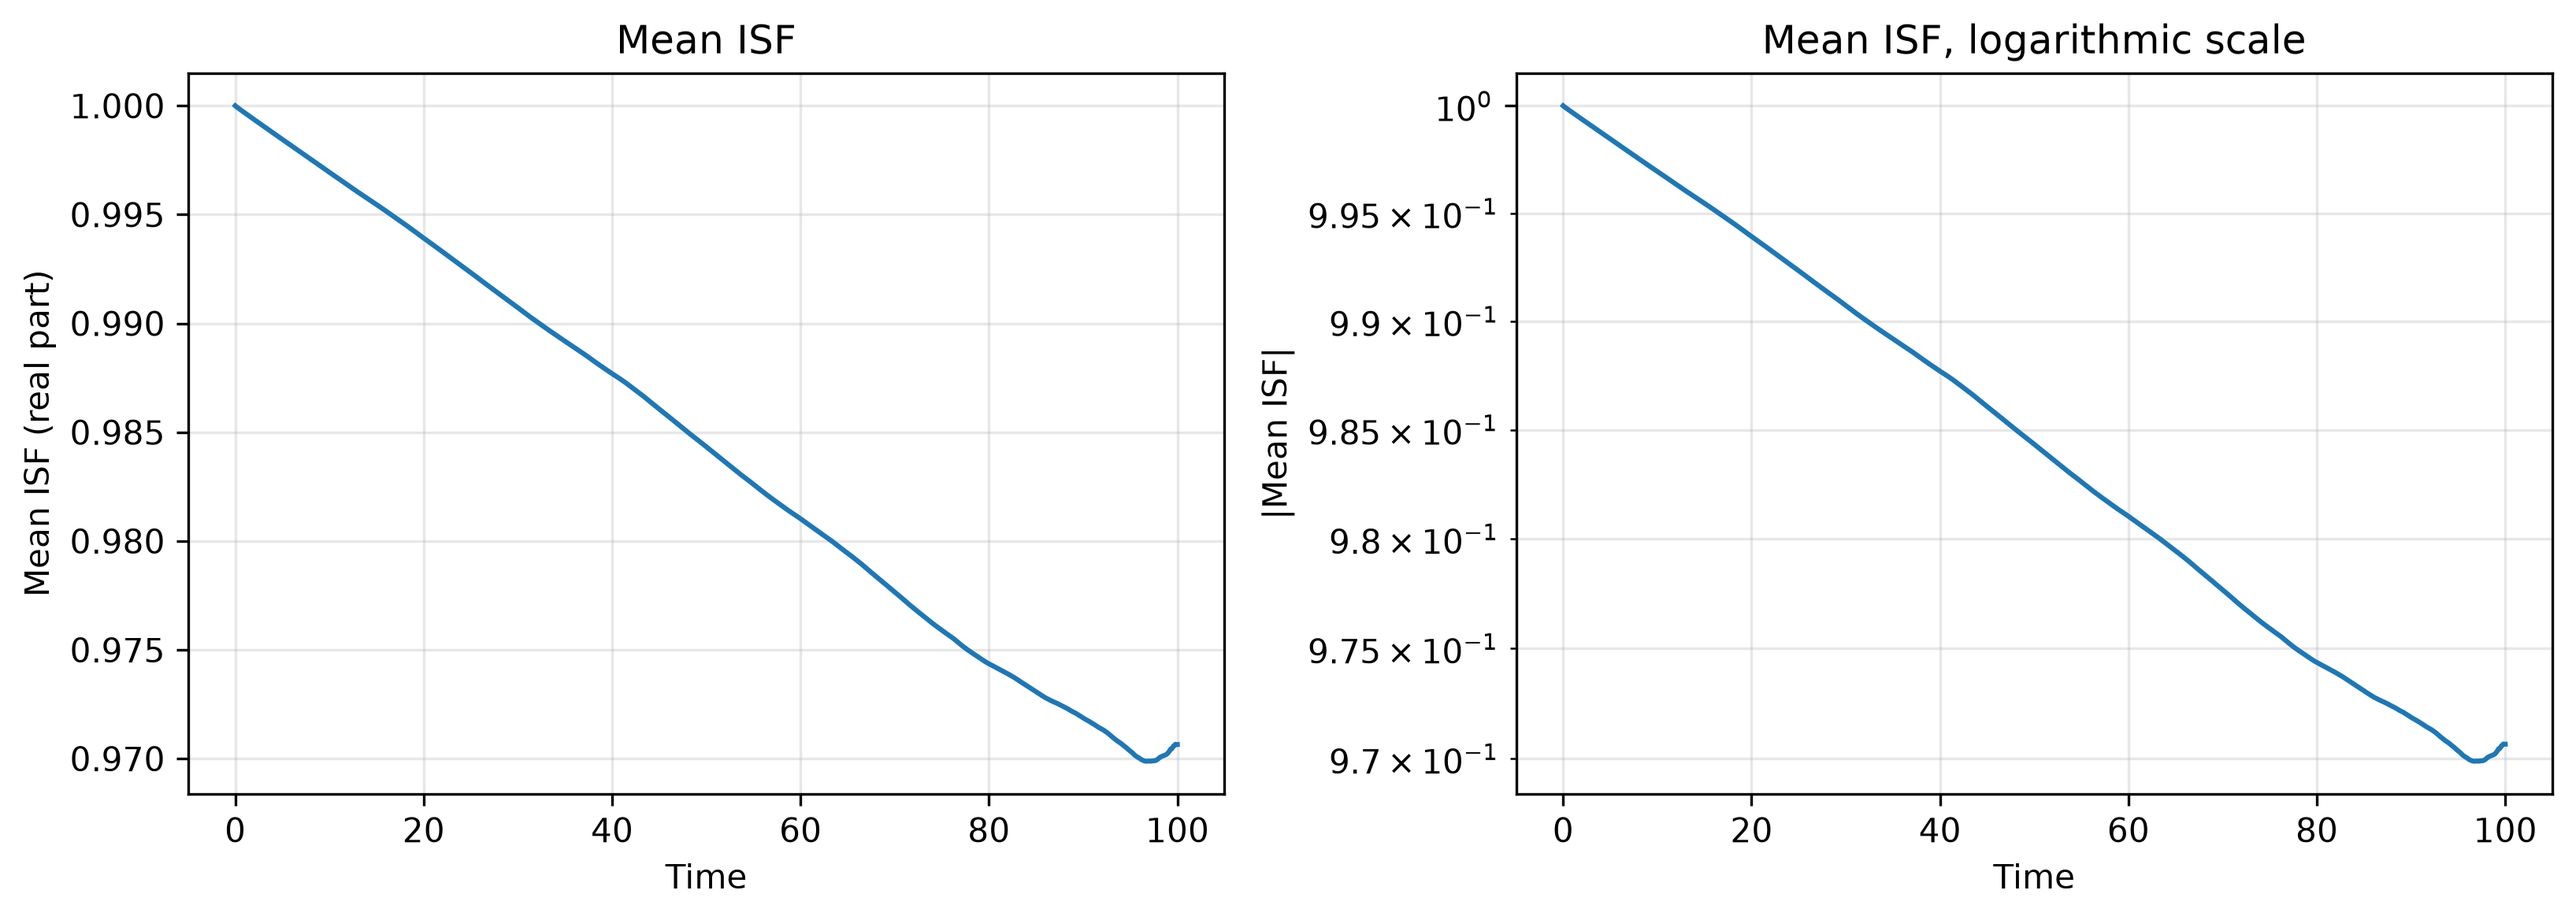
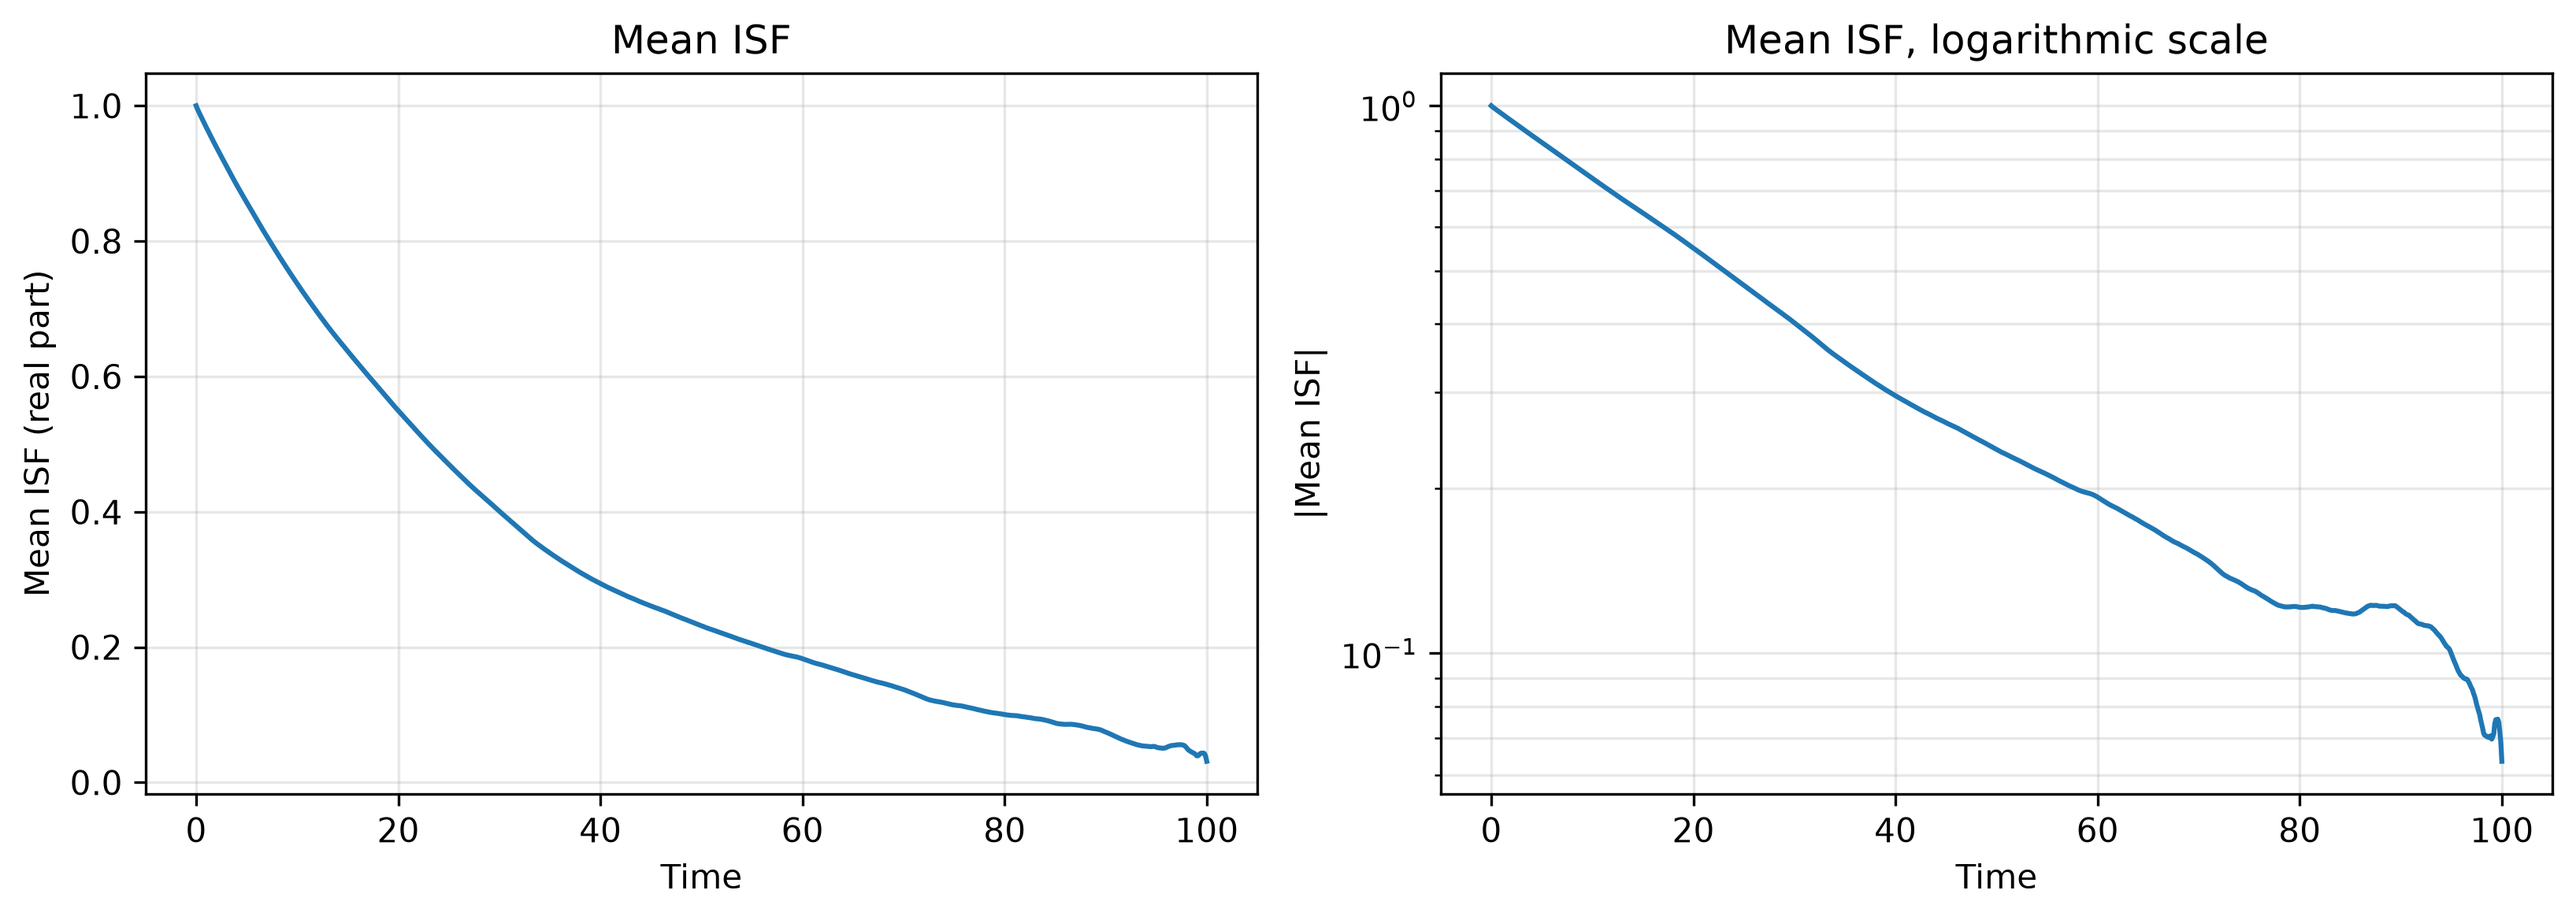
Add ISF diffusion comparison with Lifson-Jackson

diff --git a/examples/hopping_model/Diffusion_coefficient/D_from_ISF.py b/examples/hopping_model/Diffusion_coefficient/D_from_ISF.py
@@ -1,5 +1,7 @@
 from __future__ import annotations
 
+import argparse
+from dataclasses import dataclass
 from pathlib import Path
 from typing import TYPE_CHECKING
 
@@ -21,6 +23,20 @@ from scipy.constants import Boltzmann
 if TYPE_CHECKING:
     from matplotlib.axes import Axes
     from matplotlib.figure import Figure
+
+
+@dataclass(frozen=True)
+class ISFWindowFit:
+    """Linear fit of log |ISF| over one time section."""
+
+    section_index: int
+    start_time: float
+    end_time: float
+    n_points: int
+    slope: float
+    intercept: float
+    r_squared: float
+    is_good: bool
 
 
 def generate_trajectories(
@@ -97,28 +113,194 @@ def plot_mean_isf(
     return fig, (ax_linear, ax_log)
 
 
-def main() -> None:
-    """Generate and plot the mean ISF for the default hopping parameters."""
-    params = KramersParameters(
-        omega_well=1.0,
-        omega_barrier=5.0,
-        barrier_energy=1.0,
-        m=1.0,
-        temperature=0.5 / Boltzmann,
-        gamma=0.1,
+def fit_isf_sections(
+    lag_times: np.ndarray,
+    mean_isf: np.ndarray,
+    *,
+    n_sections: int = 20,
+    min_r_squared: float = 0.98,
+) -> list[ISFWindowFit]:
+    """Fit lines to equal-duration sections of log |ISF|.
+
+    Returns every section, with ``is_good`` indicating whether its R²
+    meets ``min_r_squared``. This evaluates linearity only; it does not infer D.
+    """
+    times = np.asarray(lag_times, dtype=float)
+    isf_magnitude = np.abs(np.asarray(mean_isf))
+    if (
+        times.ndim != 1
+        or isf_magnitude.ndim != 1
+        or times.shape != isf_magnitude.shape
+    ):
+        msg = "lag_times and mean_isf must be one-dimensional arrays of equal length."
+        raise ValueError(msg)
+    if n_sections < 1:
+        msg = "n_sections must be at least 1."
+        raise ValueError(msg)
+    if len(times) < 2 * n_sections:
+        msg = "Need at least two ISF samples per section."
+        raise ValueError(msg)
+    if not np.all(np.diff(times) > 0):
+        msg = "lag_times must be strictly increasing."
+        raise ValueError(msg)
+
+    log_isf = np.full(isf_magnitude.shape, np.nan, dtype=float)
+    valid = (
+        np.isfinite(isf_magnitude)
+        & (isf_magnitude > 0)
+        & np.isfinite(times)
     )
+    log_isf[valid] = np.log(isf_magnitude[valid])
+
+    section_edges = np.linspace(times[0], times[-1], n_sections + 1)
+    fits = []
+    for section_index in range(n_sections):
+        start, end = section_edges[section_index : section_index + 2]
+        in_section = (times >= start) & (
+            (times < end) if section_index < n_sections - 1 else (times <= end)
+        )
+        section_times = times[in_section]
+        section_log_isf = log_isf[in_section]
+        valid = np.isfinite(section_times) & np.isfinite(section_log_isf)
+        section_times = section_times[valid]
+        section_log_isf = section_log_isf[valid]
+
+        if len(section_times) < 2:
+            fits.append(
+                ISFWindowFit(
+                    section_index=section_index,
+                    start_time=float(start),
+                    end_time=float(end),
+                    n_points=len(section_times),
+                    slope=float("nan"),
+                    intercept=float("nan"),
+                    r_squared=float("nan"),
+                    is_good=False,
+                )
+            )
+            continue
+
+        slope, intercept = np.polyfit(section_times, section_log_isf, deg=1)
+        predicted = slope * section_times + intercept
+        residual_sum_squares = np.sum((section_log_isf - predicted) ** 2)
+        total_sum_squares = np.sum(
+            (section_log_isf - np.mean(section_log_isf)) ** 2
+        )
+        r_squared = (
+            1.0 - residual_sum_squares / total_sum_squares
+            if total_sum_squares > 0
+            else float("nan")
+        )
+        fits.append(
+            ISFWindowFit(
+                section_index=section_index,
+                start_time=float(section_times[0]),
+                end_time=float(section_times[-1]),
+                n_points=len(section_times),
+                slope=float(slope),
+                intercept=float(intercept),
+                r_squared=float(r_squared),
+                is_good=bool(r_squared >= min_r_squared),
+            )
+        )
+
+    return fits
+
+
+def estimate_diffusion_from_sections(
+    section_fits: list[ISFWindowFit],
+    *,
+    q: float,
+    n_consistent_sections: int = 3,
+) -> tuple[float | None, tuple[ISFWindowFit, ...] | None]:
+    """Estimate D from the most consistent adjacent good-fit sections.
+
+    Uses log(|F(q,t)|) ~= intercept - D*q**2*t. Returns ``(None, None)`` if
+    no adjacent group of the requested size has good, decaying fits.
+    """
+    if q == 0:
+        msg = "q must be nonzero to estimate the diffusion constant."
+        raise ValueError(msg)
+    if n_consistent_sections < 1:
+        msg = "n_consistent_sections must be at least 1."
+        raise ValueError(msg)
+
+    best_group = None
+    best_score = float("inf")
+    for start in range(len(section_fits) - n_consistent_sections + 1):
+        group = tuple(section_fits[start : start + n_consistent_sections])
+        slopes = np.array([fit.slope for fit in group])
+        if not all(fit.is_good for fit in group) or not np.all(slopes < 0):
+            continue
+        mean_slope = float(np.mean(slopes))
+        relative_spread = float(np.std(slopes) / abs(mean_slope))
+        if relative_spread < best_score:
+            best_group = group
+            best_score = relative_spread
+
+    if best_group is None:
+        return None, None
+
+    mean_slope = float(np.mean([fit.slope for fit in best_group]))
+    diffusion_constant = -mean_slope / q**2
+    return diffusion_constant, best_group
+
+
+def main(
+    *,
+    params: KramersParameters | None = None,
+    q: float = 0.1,
+) -> float | None:
+    """Generate and plot the mean ISF, returning D when a fit is found."""
+    if q == 0:
+        msg = "q must be nonzero to estimate the diffusion constant."
+        raise ValueError(msg)
+    if params is None:
+        params = KramersParameters(
+            omega_well=1.0,
+            omega_barrier=5.0,
+            barrier_energy=1.0,
+            m=1.0,
+            temperature=0.5 / Boltzmann,
+            gamma=0.1,
+        )
     lag_times, mean_isf = get_mean_isf(
         params=params,
         time_span=TimeSpan(t_start=0.0, t_end=100.0, n_steps=1_000),
-        n_trajectories=32,
-        delta_k=(0.1,),
+        n_trajectories=128,
+        delta_k=(q,),
     )
     fig, _ = plot_mean_isf(lag_times, mean_isf)
+    fits = fit_isf_sections(lag_times, mean_isf)
+    good_fits = [fit for fit in fits if fit.is_good]
+    diffusion_constant, selected_sections = estimate_diffusion_from_sections(
+        fits,
+        q=q,
+    )
+    print(f"q={q:g}; {len(good_fits)}/{len(fits)} sections have R² >= 0.98.")
+    for fit in fits:
+        print(
+            f"section {fit.section_index + 1:02d}: "
+            f"t={fit.start_time:.3g}–{fit.end_time:.3g}, "
+            f"slope={fit.slope:.5g}, R²={fit.r_squared:.5f}, "
+            f"good={fit.is_good}"
+        )
+    if selected_sections is None:
+        print("No group of three adjacent good, decaying sections was found.")
+    else:
+        selected_range = (
+            f"sections {selected_sections[0].section_index + 1}–"
+            f"{selected_sections[-1].section_index + 1}"
+        )
+        print(f"Selected {selected_range}; estimated D={diffusion_constant:.6g}.")
     output_path = Path(__file__).with_name("mean_isf.png")
     fig.savefig(output_path, dpi=300, bbox_inches="tight")
     print(f"Saved ISF plot to {output_path.resolve()}")
     plt.show()
+    return diffusion_constant
 
 
 if __name__ == "__main__":
-    main()
+    parser = argparse.ArgumentParser()
+    parser.add_argument("--q", type=float, default=0.1, help="ISF wavevector magnitude")
+    main(q=parser.parse_args().q)

diff --git a/examples/hopping_model/Diffusion_coefficient/D_vs_Lifson_Jackson.py b/examples/hopping_model/Diffusion_coefficient/D_vs_Lifson_Jackson.py
@@ -1,0 +1,137 @@
+from __future__ import annotations
+
+import argparse
+from pathlib import Path
+
+import matplotlib.pyplot as plt
+import numpy as np
+from classical_diffusion.hopping import get_lifson_jackson_rate
+from classical_diffusion.jax.langevin import (
+    KramersParameters,
+)
+from classical_diffusion.langevin import KramersSystem1D as ClassicalKramersSystem1D
+from classical_diffusion.simulation import TimeSpan
+from D_from_ISF import (
+    estimate_diffusion_from_sections,
+    fit_isf_sections,
+    get_mean_isf,
+)
+from scipy.constants import Boltzmann
+
+
+def compare_diffusion_constants(
+    *,
+    q: float = 0.1,
+    n_omega_well: int = 10,
+    n_trajectories: int = 128,
+) -> tuple[np.ndarray, np.ndarray, np.ndarray]:
+    """Compare ISF-derived and Lifson–Jackson D across omega_well values."""
+    if q == 0:
+        msg = "q must be nonzero."
+        raise ValueError(msg)
+    if n_omega_well < 1:
+        msg = "n_omega_well must be at least 1."
+        raise ValueError(msg)
+
+    omega_wells = np.linspace(0.2, 2.0, n_omega_well)
+    isf_diffusion = np.full(omega_wells.shape, np.nan)
+    lifson_jackson_diffusion = np.empty(omega_wells.shape)
+    time_span = TimeSpan(t_start=0.0, t_end=100.0, n_steps=1_000)
+
+    for index, omega_well in enumerate(omega_wells):
+        params = KramersParameters(
+            omega_well=float(omega_well),
+            omega_barrier=5.0,
+            barrier_energy=1.0,
+            m=1.0,
+            temperature=0.5 / Boltzmann,
+            gamma=0.1,
+        )
+
+        lag_times, mean_isf = get_mean_isf(
+            params=params,
+            time_span=time_span,
+            n_trajectories=n_trajectories,
+            delta_k=(q,),
+            seed=234,
+        )
+        section_fits = fit_isf_sections(lag_times, mean_isf)
+        isf_value, selected_sections = estimate_diffusion_from_sections(
+            section_fits,
+            q=q,
+        )
+        if selected_sections is not None:
+            isf_diffusion[index] = isf_value
+
+        system = ClassicalKramersSystem1D(params=params)
+        lifson_jackson_rate = get_lifson_jackson_rate(
+            system,
+            delta_x=params.delta_x,
+        )
+        # The Lifson–Jackson helper returns D / delta_x**2 (a hopping rate).
+        lifson_jackson_diffusion[index] = lifson_jackson_rate * params.delta_x**2
+
+        isf_text = (
+            f"{isf_diffusion[index]:.6g}"
+            if np.isfinite(isf_diffusion[index])
+            else "no fit"
+        )
+        print(
+            f"omega_well={omega_well:.3f}: ISF D={isf_text}, "
+            f"Lifson–Jackson D={lifson_jackson_diffusion[index]:.6g}"
+        )
+
+    return omega_wells, isf_diffusion, lifson_jackson_diffusion
+
+
+def main(
+    *,
+    q: float = 0.05,
+    n_omega_well: int = 10,
+    n_trajectories: int = 128,
+) -> None:
+    omega_wells, isf_diffusion, lifson_jackson_diffusion = compare_diffusion_constants(
+        q=q,
+        n_omega_well=n_omega_well,
+        n_trajectories=n_trajectories,
+    )
+
+    fig, ax = plt.subplots(figsize=(7, 5))
+    ax.plot(
+        omega_wells,
+        lifson_jackson_diffusion,
+        marker="o",
+        label="Lifson–Jackson",
+    )
+    ax.plot(
+        omega_wells,
+        isf_diffusion,
+        marker="x",
+        label="ISF estimate",
+    )
+    ax.set_xlabel(r"$\omega_{\mathrm{well}}$")
+    ax.set_ylabel("Diffusion constant")
+    ax.set_title(f"Diffusion vs. well frequency (q={q:g})")
+    ax.grid(True, alpha=0.3)
+    ax.legend()
+    fig.tight_layout()
+
+    output_path = Path(__file__).with_name("D_vs_Lifson_Jackson.png")
+    fig.savefig(output_path, dpi=300, bbox_inches="tight")
+    print(f"Saved comparison plot to {output_path.resolve()}")
+    plt.show()
+
+
+if __name__ == "__main__":
+    parser = argparse.ArgumentParser()
+    parser.add_argument(
+        "--q", type=float, default=0.05, help="ISF wavevector magnitude"
+    )
+    parser.add_argument("--n-omega-well", type=int, default=10)
+    parser.add_argument("--n-trajectories", type=int, default=128)
+    args = parser.parse_args()
+    main(
+        q=args.q,
+        n_omega_well=args.n_omega_well,
+        n_trajectories=args.n_trajectories,
+    )

diff --git a/examples/hopping_model/Diffusion_coefficient/run_D_from_ISF.py b/examples/hopping_model/Diffusion_coefficient/run_D_from_ISF.py
@@ -1,0 +1,21 @@
+"""Run ISF-based diffusion analysis with a chosen parameter set and q."""
+
+from scipy.constants import Boltzmann
+from classical_diffusion.jax.langevin import KramersParameters
+
+from D_from_ISF import main
+
+
+params = KramersParameters(
+    omega_well=1.0,
+    omega_barrier=5.0,
+    barrier_energy=1.0,
+    m=1.0,
+    temperature=0.5 / Boltzmann,
+    gamma=0.1,
+)
+q = 0.01
+
+
+if __name__ == "__main__":
+    main(params=params, q=q)
